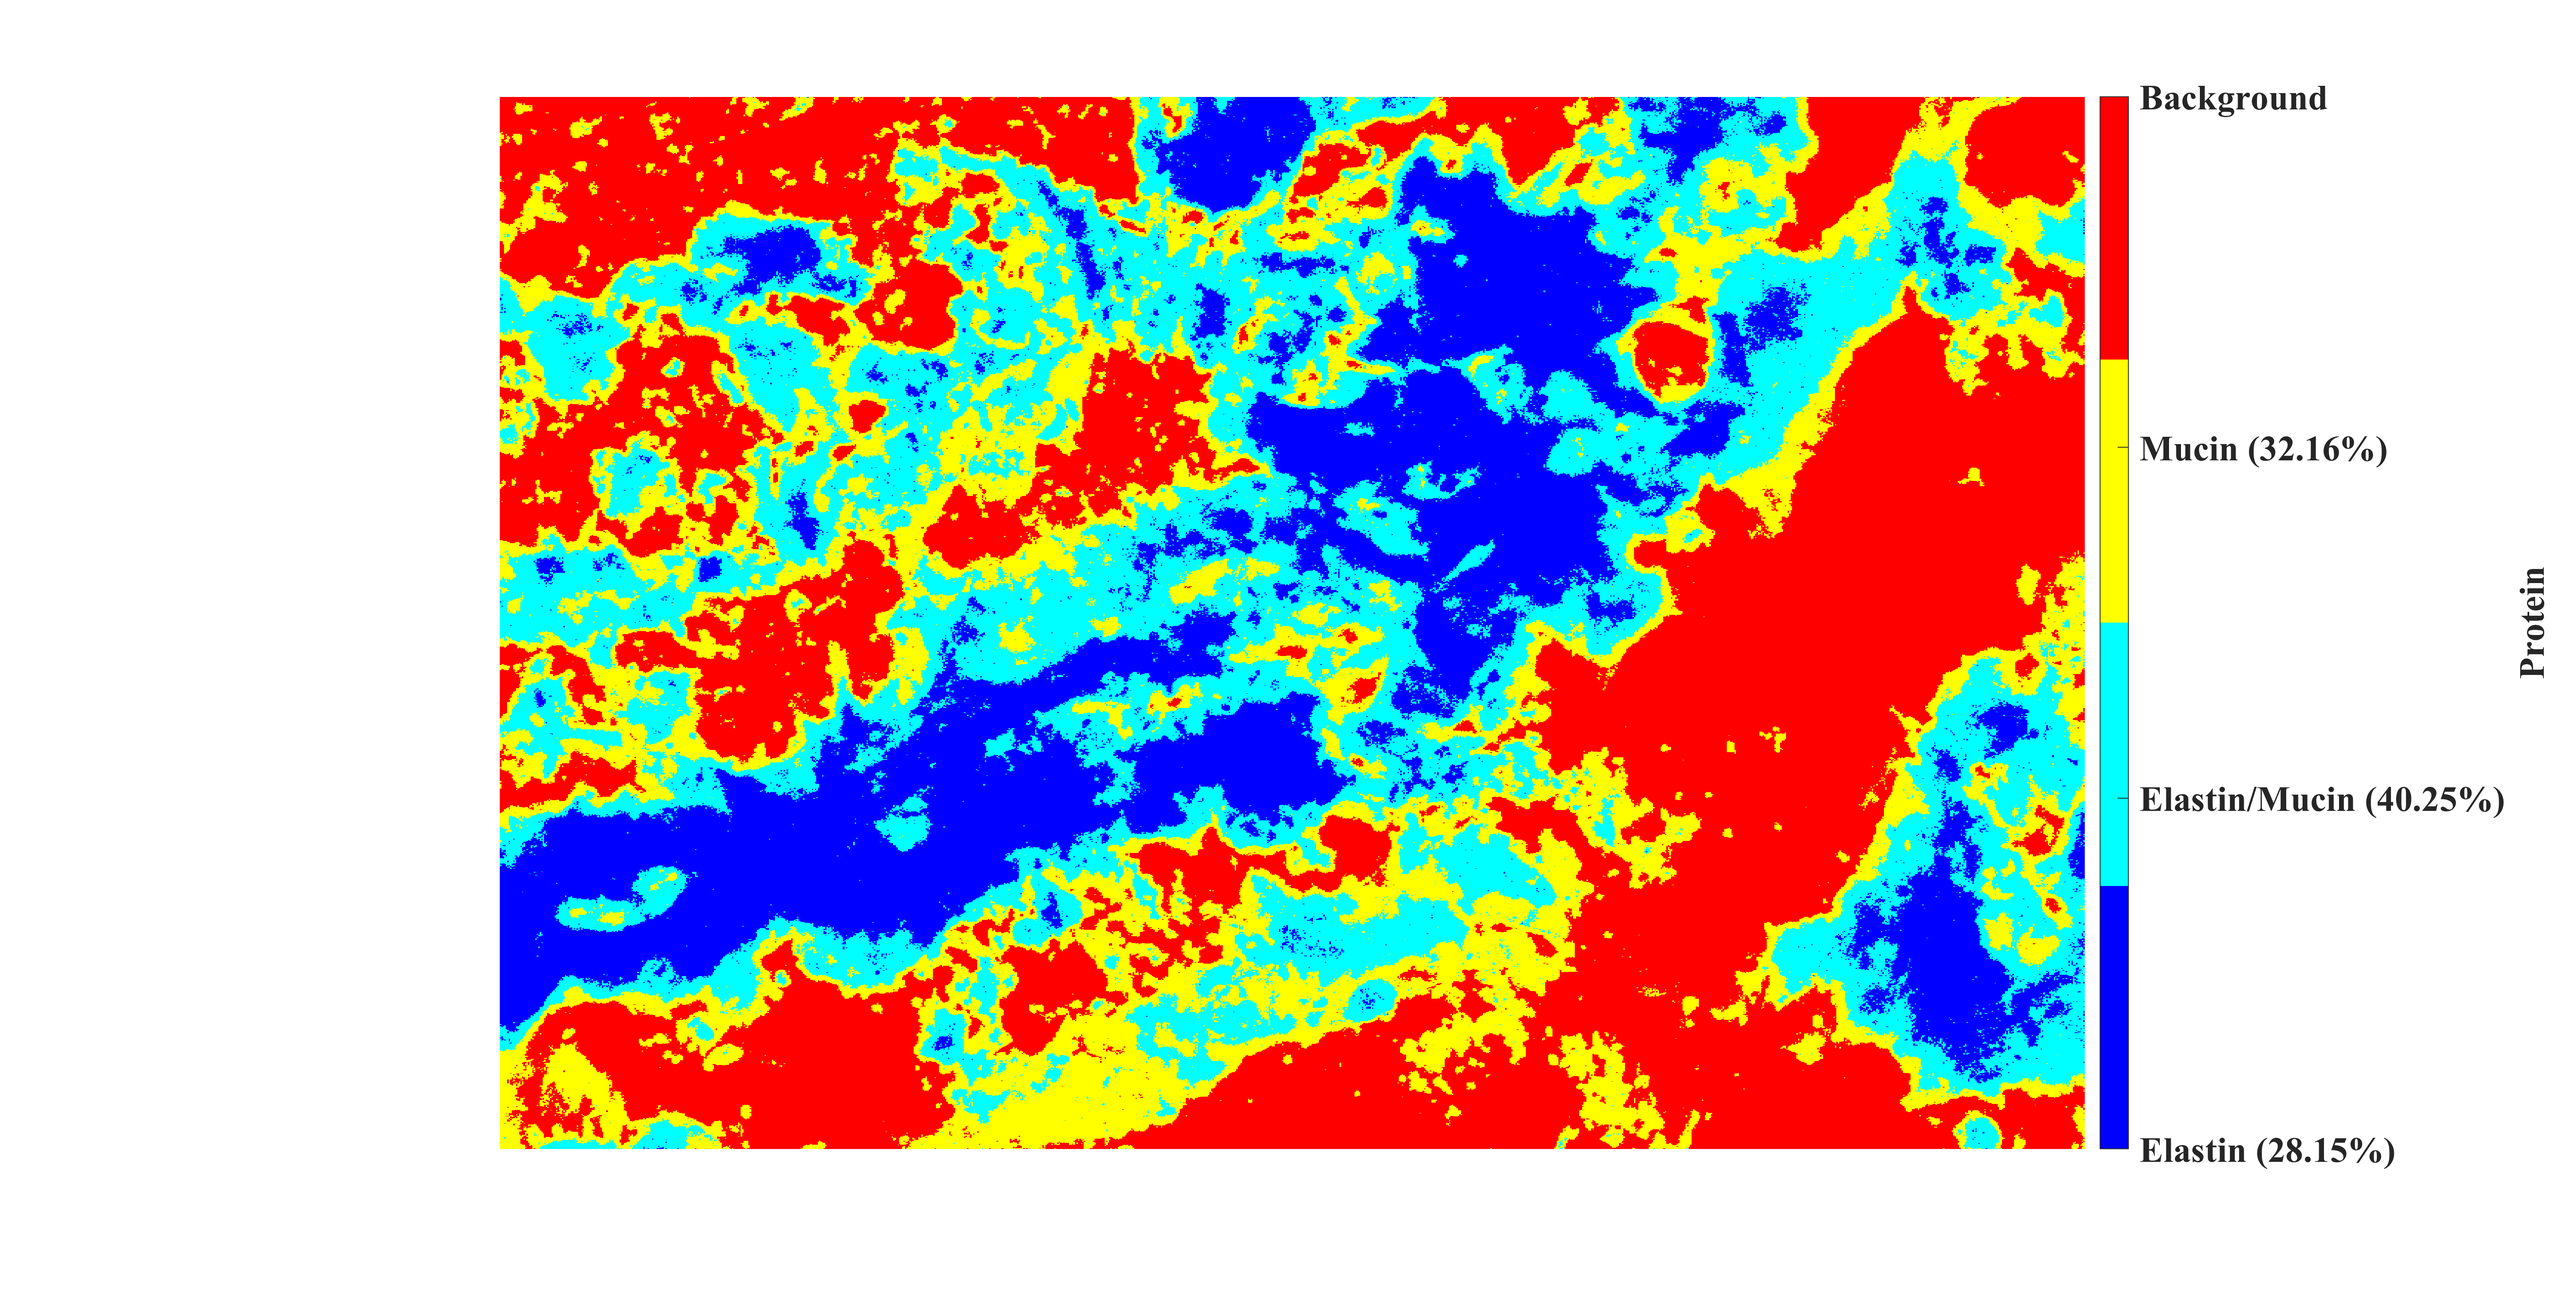
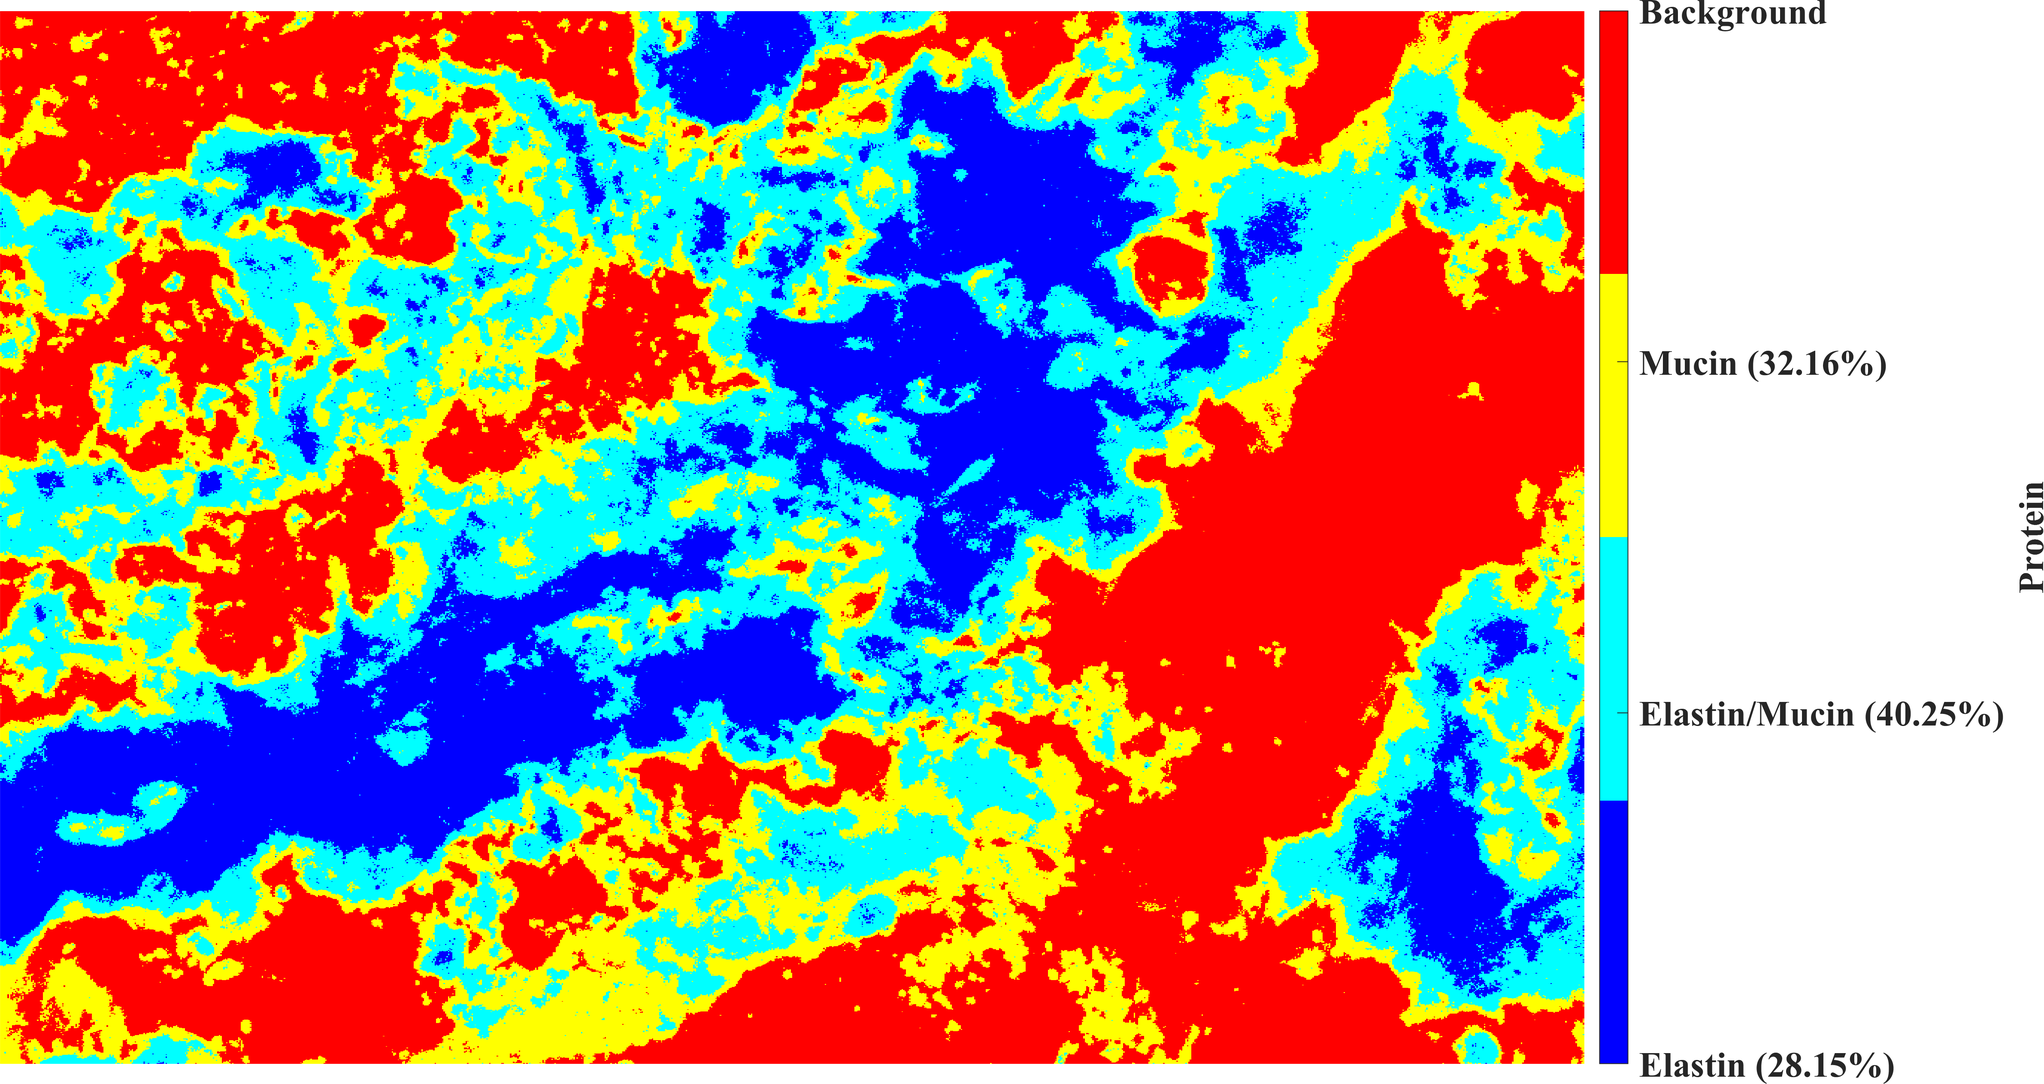
Updated Images

diff --git a/README.md b/README.md
@@ -21,7 +21,7 @@ Given an input stained image (assumed to be in color) the code will attempt to s
 
 
 ### Segmented with Area Percentages
-<a href="url"><img src="https://github.com/DThornz/Protein-Heat-Map-/blob/main/Example%20Results/E_2movats_outer_x20_1_FullImg_Thresholding.png" align="center" height="601.8" width="1200" ></a>
+<a href="url"><img src="https://github.com/DThornz/Protein-Heat-Map-/blob/main/Example%20Results/E_2movats_outer_x20_1_FullImg_Thresholding.png" align="center" height="505" width="952.6" ></a>
 
 
 ### Elastin Intesity Heat Map
